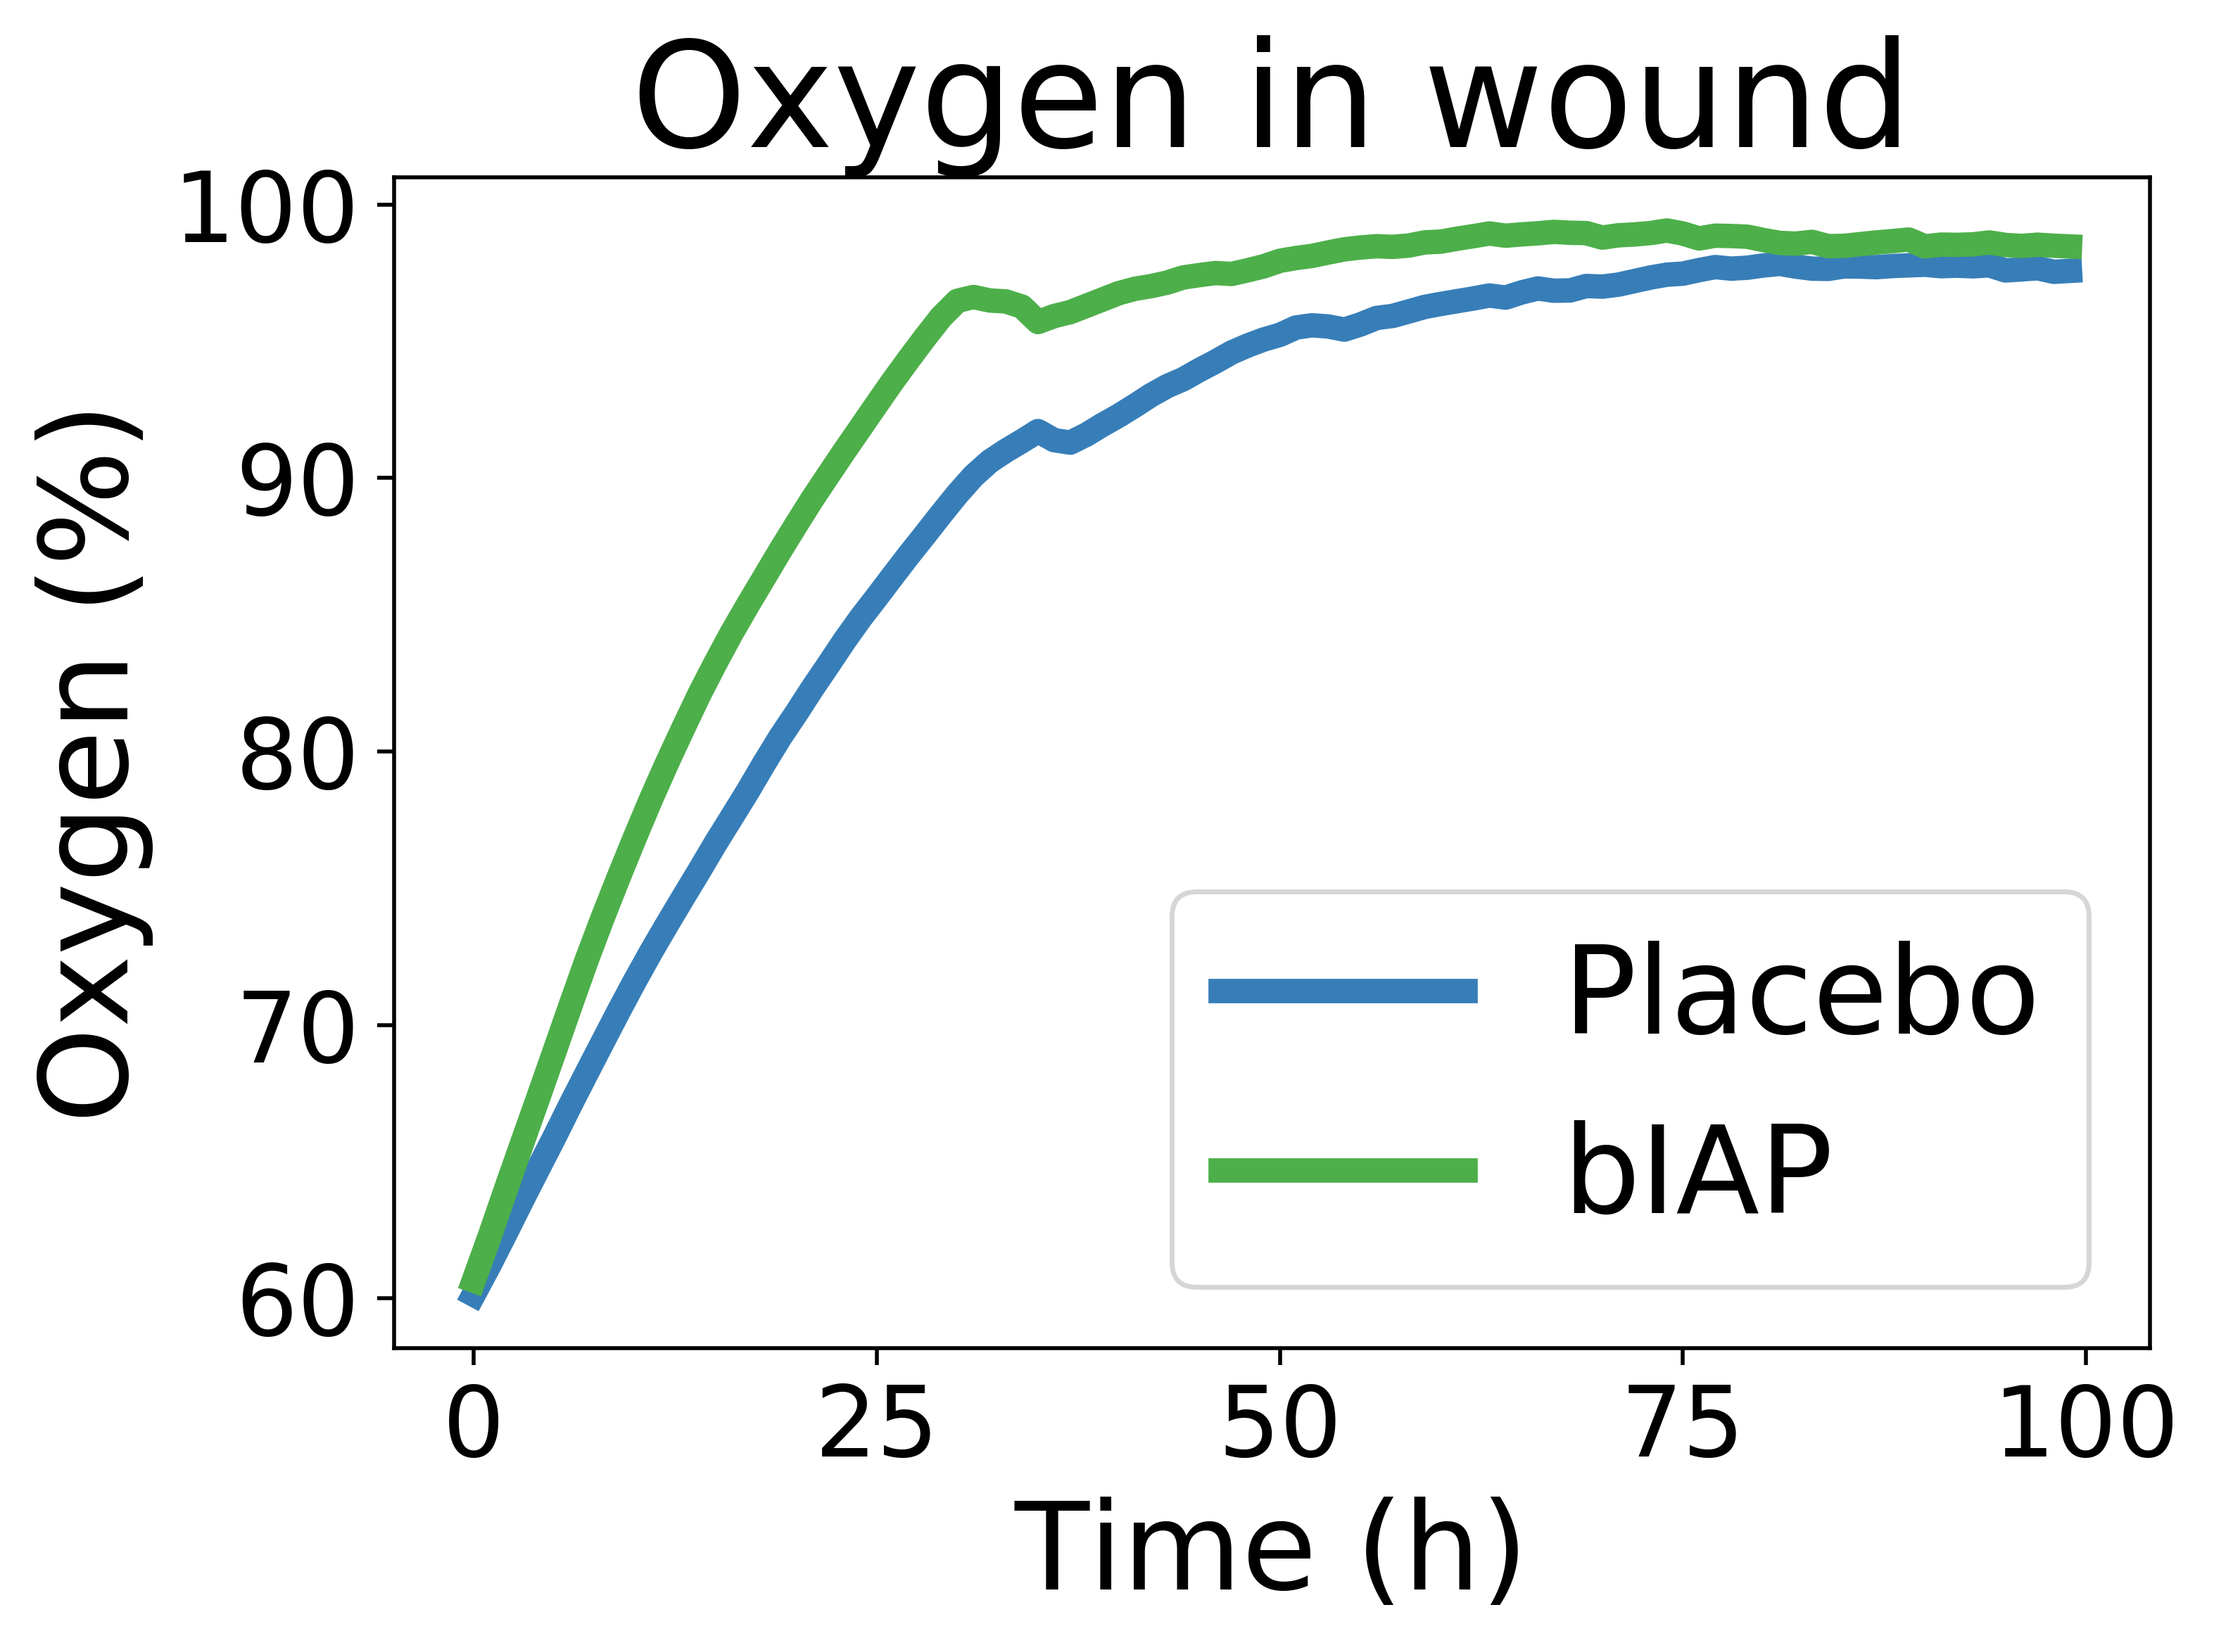
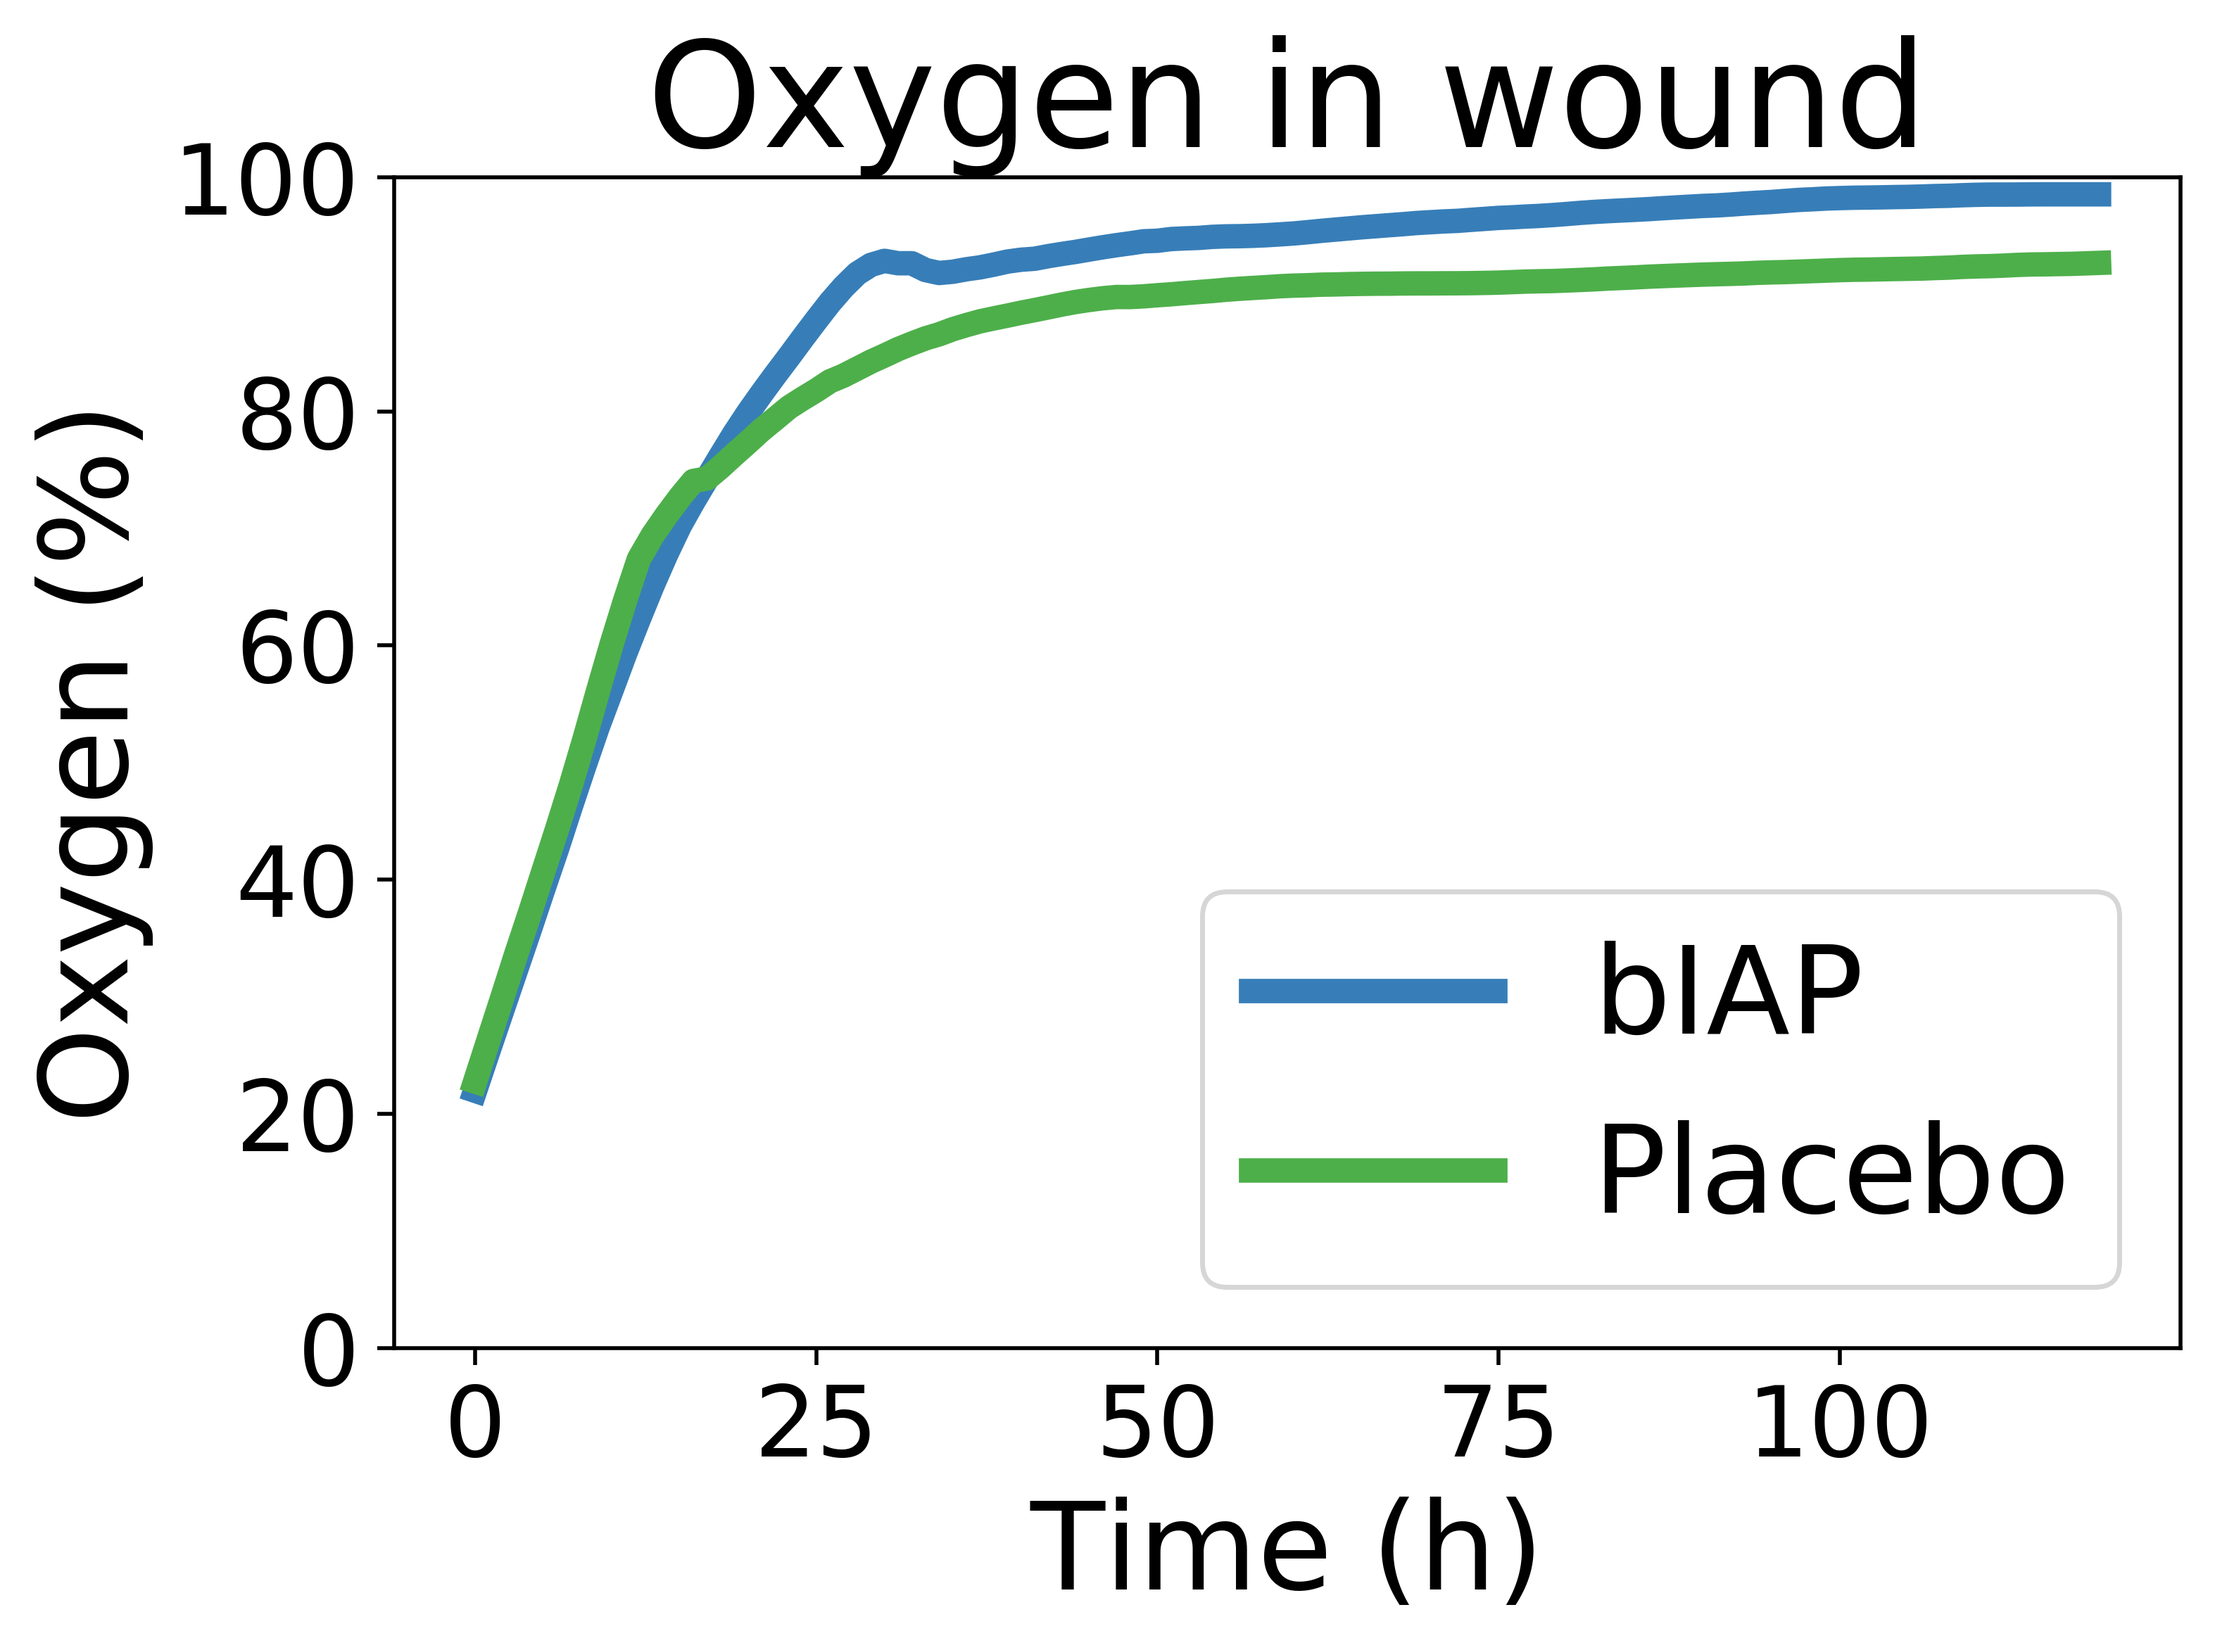
update

diff --git a/ABM/ABM.py b/ABM/ABM.py
@@ -118,15 +118,14 @@ class WoundModel(Model):
         self.running = True
 
         self.datacollector = DataCollector(model_reporters={"Blood_flow": Blood_flow,"Collagen": Collagen, "Macrophages": Macrophage_count, "Neutrophils": Neutrophil_count, "Fibroblasts": Fibroblast_count})
-        print(len(self.wound_coord))
-        print(len(self.healthy))
+
 
 
 
     def blood_flow(self):
         agent_oxy = [agent.oxy for agent in self.schedule.agents if type(agent) is Endothelial]
         oxy_total = sum(agent_oxy)
-        return oxy_total / 62550 * 100
+        return oxy_total / 625
 
 
 
@@ -144,8 +143,7 @@ class WoundModel(Model):
         if self.timer % 8 == 0:
             self.resting_fibroblasts += 1
 
-        print(self.resting_neutrophils)
-        #cell_concentrations = self.datacollector.get_model_vars_dataframe()
+                #cell_concentrations = self.datacollector.get_model_vars_dataframe()
         #print(cell_concentrations)
 
 
@@ -156,7 +154,7 @@ class WoundModel(Model):
 def Blood_flow(model):
     agent_oxy = [agent.oxy for agent in model.schedule.agents if type(agent) is Endothelial and agent.pos in model.wound_coord]
     oxy_total = sum(agent_oxy)
-    print(oxy_total)
+
     return oxy_total/(len(model.wound_coord))
 
 def Collagen(model):
@@ -178,6 +176,15 @@ def Neutrophil_count(model):
             neutrophil_count += 1
      return neutrophil_count
 
+
+def Neutrophil_necrotic_count(model):
+    neutrophil_count = 0
+    for agent in model.schedule.agents:
+        if type(agent) is Neutrophil and agent.energy <= 0:
+            if not agent.apoptised:
+                neutrophil_count += 1
+    return neutrophil_count
+
 def Macrophage_count(model):
      macrophage_count = 0
      for agent in model.schedule.agents:
@@ -190,12 +197,12 @@ def batch_run(WoundModel):
 
     fixed_params = {
     "Neutrophils": 80,
-     "Macrophages": 80,
-     "Fibroblasts": 80,
-     "IL10": 0,
-     "IL6": 0,
-     "TNFa": 0,
-     "TGFb": 0,
+     "Macrophages": 50,
+     "Fibroblasts": 50,
+     "IL10": 0.5,
+     "IL6": 0.5,
+     "TNFa": 0.5,
+     "TGFb": 0.5,
      "width": 25,
      "height": 25,
      "wound_radius": 10,
@@ -205,12 +212,38 @@ def batch_run(WoundModel):
     batch_run = BatchRunner(
     WoundModel,variable_parameters=None,
     fixed_parameters = fixed_params,
-    max_steps=100,
+    max_steps=120,
     model_reporters={"Blood_flow": Blood_flow,"Collagen": Collagen, "Macrophages": Macrophage_count, "Neutrophils": Neutrophil_count, "Fibroblasts": Fibroblast_count}
     )
 
     batch_run.run_all()
+    run_dataAP = batch_run.get_model_vars_dataframe()
+
+    fixed_params = {
+        "Neutrophils": 80,
+        "Macrophages": 80,
+        "Fibroblasts": 80,
+        "IL10": 0.5,
+        "IL6": 0.5,
+        "TNFa": 0.5,
+        "TGFb": 0.5,
+        "width": 25,
+        "height": 25,
+        "wound_radius": 10,
+        "coagulation": 0.5
+    }
+
+    batch_run = BatchRunner(
+        WoundModel, variable_parameters=None,
+        fixed_parameters=fixed_params, iterations= 5,
+        max_steps=120,
+        model_reporters={"Blood_flow": Blood_flow, "Collagen": Collagen, "Macrophages": Macrophage_count,
+                         "Neutrophils": Neutrophil_count, "Fibroblasts": Fibroblast_count}
+    )
+
+    batch_run.run_all()
     run_data = batch_run.get_model_vars_dataframe()
+
     print(run_data)
 
 #batch_run(WoundModel)
@@ -218,14 +251,14 @@ def batch_run(WoundModel):
 def loop_fig(fignum):
     return fignum + 1
 
-def run_model(step_count=100):
-    model = WoundModel(20,50,80,0.5,0.5,0.5,0.5,25,25,10,0.7)
+def run_model(step_count=120):
+    model = WoundModel(50,50,50,1,1,1,1,25,25,10,0.5)
     for i in range(step_count):
         model.step()
     cell_concentrations = model.datacollector.get_model_vars_dataframe()
 
-
-    modelAP = WoundModel(80, 50, 80, 1, 0, 0, 0, 25, 25, 10, 0.7)
+    modelAP = WoundModel(75, 50, 50, 5, 0.25, 0.5, 0.5, 25, 25, 10, 0.5)
+    #modelAP = WoundModel(80, 50, 80, 1, 0, 0, 0, 25, 25, 10, 0.7)
     for i in range(step_count):
         modelAP.step()
     cell_concentrationsAP = modelAP.datacollector.get_model_vars_dataframe()
@@ -244,6 +277,7 @@ def run_model(step_count=100):
     plt.ylabel("Macrophages (Arbitrary units)", fontsize=fs)
     plt.xlabel("Time (h)", fontsize=fs)
     plt.title("Macrophages", fontsize=ts)
+    plt.ylim(0,100)
     plt.legend({ 'bIAP', 'Placebo'}, loc='best', fontsize=lfs)
     plt.tick_params(labelsize=ls)
     plt.tight_layout()
@@ -256,6 +290,7 @@ def run_model(step_count=100):
     plt.plot(cell_concentrationsAP["Neutrophils"], linewidth=lw, ls='-', color = "#4daf4a")
     plt.ylabel("Neutrophils (Arbitrary units)", fontsize=fs)
     plt.xlabel("Time (h)", fontsize=fs)
+    plt.ylim(0, 100)
     plt.legend({ 'bIAP', 'Placebo'}, loc='best', fontsize=lfs)
     plt.title("Neutrophils", fontsize=ts)
     plt.tick_params(labelsize=ls)
@@ -269,6 +304,7 @@ def run_model(step_count=100):
     plt.plot(cell_concentrationsAP["Fibroblasts"], linewidth=lw, ls='-', color = "#4daf4a" )
     plt.ylabel("Fibroblasts (Arbitrary units)", fontsize=fs)
     plt.xlabel("Time (h)", fontsize=fs)
+    plt.ylim(0, 100)
     plt.legend({ 'bIAP', 'Placebo'}, loc='best', fontsize=lfs)
     plt.title("Fibroblasts", fontsize=ts)
     plt.tick_params(labelsize=ls)
@@ -283,6 +319,7 @@ def run_model(step_count=100):
     plt.plot(cell_concentrationsAP["Blood_flow"], linewidth=lw, ls='-', color="#4daf4a")
     plt.ylabel("Oxygen (%)", fontsize=fs)
     plt.xlabel("Time (h)", fontsize=fs)
+    plt.ylim(0, 100)
     plt.legend({ 'bIAP', 'Placebo'}, loc='best', fontsize=lfs)
     plt.title("Oxygen in wound", fontsize=ts)
     plt.tick_params(labelsize=ls)
@@ -297,6 +334,7 @@ def run_model(step_count=100):
     plt.plot(cell_concentrationsAP["Collagen"], linewidth=lw, ls='-', color="#4daf4a")
     plt.ylabel("Collagen (%)", fontsize=fs)
     plt.xlabel("Time (h)", fontsize=fs)
+    plt.ylim(0, 100)
     plt.legend({ 'bIAP', 'Placebo'}, loc='best', fontsize=lfs)
     plt.title("Collagen % over whole wound", fontsize=ts)
     plt.tick_params(labelsize=ls)
@@ -307,7 +345,7 @@ def run_model(step_count=100):
 #run_model()
 
 def run_calibration(step_count=120):
-    model = WoundModel(50,50,50,0.5,0.5,0.5,0.5,25,25,10,0.7)
+    model = WoundModel(50,50,50,0.5,0.5,0.5,0.5,25,25,10,0.5)
     for i in range(step_count):
         model.step()
     cell_concentrations = model.datacollector.get_model_vars_dataframe()
@@ -325,7 +363,7 @@ def run_calibration(step_count=120):
     plt.plot(cell_concentrations["Neutrophils"], linewidth=lw, ls='-')
     plt.plot(cell_concentrations["Fibroblasts"], linewidth=lw, ls='-')
     plt.xlim(0,120)
-    plt.ylabel("concentration (Arbitrary units)", fontsize=fs)
+    plt.ylabel("Concentration (Arbitrary units)", fontsize=fs)
     plt.xlabel("Time (h)", fontsize=fs)
 
     plt.legend({ 'Fibroblasts', 'Macrophages', 'Neutrophils', }, loc='best', fontsize=lfs)
@@ -336,10 +374,11 @@ def run_calibration(step_count=120):
 
     n = loop_fig(n)
     plt.figure(n)
-    plt.plot(cell_concentrations["Blood_flow"], linewidth=lw, ls='-')
-
+    plt.plot(cell_concentrations["Blood_flow"], linewidth=lw, ls='-', color = 'red')
+    plt.plot(cell_concentrations["Collagen"], linewidth=lw, ls='-', color = 'black')
+    plt.legend({'Oxygen', 'Collagen' }, loc='best', fontsize=lfs)
     plt.xlim(0, 120)
-    plt.ylabel("concentration (Arbitrary units)", fontsize=fs)
+    plt.ylabel("Concentration (Arbitrary units)", fontsize=fs)
     plt.xlabel("Time (h)", fontsize=fs)
 
     plt.tick_params(labelsize=ls)
@@ -349,4 +388,4 @@ def run_calibration(step_count=120):
     #plt.plot(cell_concentrations["Collagen"], linewidth=lw, ls='-')
 
 
-run_calibration()
+#run_calibration()

diff --git a/ABM/agents.py b/ABM/agents.py
@@ -74,12 +74,12 @@ class Endothelial(Agent):
         self.macrophage_time += 1
         self.fibroblast_time += 1
 
-        if self.TNFa > 2 and self.oxy >= 25 and self.IL10 < 1.5 and self.macrophage_time % 2 == 0 and self.model.resting_macrophages > 0 and self.coll <100:
+        if self.TNFa > 2 and self.oxy >= 25 and self.IL10 < 1.5 and self.macrophage_time % 2 == 0 and self.model.resting_macrophages > 0 and self.coll <100 :
             self.attract_macrophage()
             self.macrophage_time = 0
 
 
-        if self.TNFa > 1 and self.oxy >= 25 and self.IL6 > 1 and self.model.resting_neutrophils > 0 and self.oxy<100:
+        if self.TNFa > 1 and self.oxy >= 25 and self.IL6 > 1 and self.model.resting_neutrophils > 0 and self.oxy<100 and self.model.blood_flow() < 80:
             self.attract_neutrophil()
             self.neutrophil_time = 0
 
@@ -192,13 +192,13 @@ class Neutrophil(Agent):
                     if agent.oxy >= 100:
                         pass
                     else:
-                        agent.oxy += 1
+                        agent.oxy += 2
             elif type(agent) is Endothelial:
                 if self.energy > 0:
                     if agent.oxy >= 100:
                         pass
                     else:
-                        agent.oxy += 1
+                        agent.oxy += 2
 
             if type(agent) is Macrophage:
                 if self.energy == 0:
@@ -212,10 +212,10 @@ class Neutrophil(Agent):
                 if type(agent) is Endothelial and agent.pos == self.pos:
                     # agent.TNFa += 0.01 - agent.IL10*0.01 - agent.TGFb* 0.01 + agent.IL6*0.01
                     agent.TNFa += 0.004
-                    agent.oxy -= 10
+                    agent.oxy -= 5
                 elif type(agent) is Endothelial:
                     agent.TNFa += 0.002
-                    agent.oxy -= 5
+                    agent.oxy -= 2
 
 
     def step(self):
@@ -234,7 +234,7 @@ class Neutrophil(Agent):
             cellmates = self.model.grid.get_cell_list_contents([self.pos])
             for agent in cellmates:
                 if type(agent) is Endothelial:
-                    energy_loss_IL10 = agent.IL10 *0.1
+                    energy_loss_IL10 = agent.IL10 *0.01
 
 
             self.energy = self.energy - 0.03 - energy_loss_IL10
@@ -288,7 +288,7 @@ class Macrophage(Agent):
                     if agent.oxy >= 100:
                         pass
                     else:
-                        agent.oxy += 1
+                        agent.oxy += 2
                     counter = counter + 2
                     modulation = modulation + agent.TNFa + agent.IL6
             if modulation / counter > 2:
@@ -362,7 +362,7 @@ class Fibroblast(Agent):
                 IL6_neigbors += [agent.IL6]
 
         #actually 1+ deactivating cytokines but not included in this model
-        Collagen_stimulation_factor = m.log((1 + sum(TGFb_neigbors)/9 + sum(IL6_neigbors)/9)/1)
+        Collagen_stimulation_factor = 2 * m.log((1 + sum(TGFb_neigbors)/9 + sum(IL6_neigbors)/9)/1)
 
 
         for agent in neighbors:

diff --git a/ABM/server.py b/ABM/server.py
@@ -10,13 +10,13 @@ from agents import *
 
 Neutrophil_slider = UserSettableParameter('slider', "Number of Neutrophils", 50, 1, 100, 1)
 Macrophage_slider = UserSettableParameter('slider', "Number of Macrophages", 50, 1, 100, 1)
-Fibroblast_slider = UserSettableParameter('slider', "Number of Fibroblasts", 100, 1, 200, 1)
+Fibroblast_slider = UserSettableParameter('slider', "Number of Fibroblasts", 50, 1, 200, 1)
 wound_size_slider = UserSettableParameter('slider', 'Wound Radius',10,1,10,1)
 coagulation_slider = UserSettableParameter('slider', 'Proportion of Coagulation', 0.7, 0, 1, 0.1)
-IL10_slider = UserSettableParameter('slider', 'Initial IL-10', 0, 0, 1, 0.1)
-IL6_slider = UserSettableParameter('slider', 'Initial IL6', 0, 0, 1, 0.1)
-TNFa_slider = UserSettableParameter('slider', 'Initial TNFa', 0, 0, 1, 0.1)
-TGFb_slider = UserSettableParameter('slider', 'Initial TGFb', 0, 0, 1, 0.1)
+IL10_slider = UserSettableParameter('slider', 'Initial IL-10', 0.5, 0, 1, 0.1)
+IL6_slider = UserSettableParameter('slider', 'Initial IL6', 0.5, 0, 1, 0.1)
+TNFa_slider = UserSettableParameter('slider', 'Initial TNFa', 0.5, 0, 1, 0.1)
+TGFb_slider = UserSettableParameter('slider', 'Initial TGFb', 0.5, 0, 1, 0.1)
 grid_width = 25
 grid_height = 25
 
